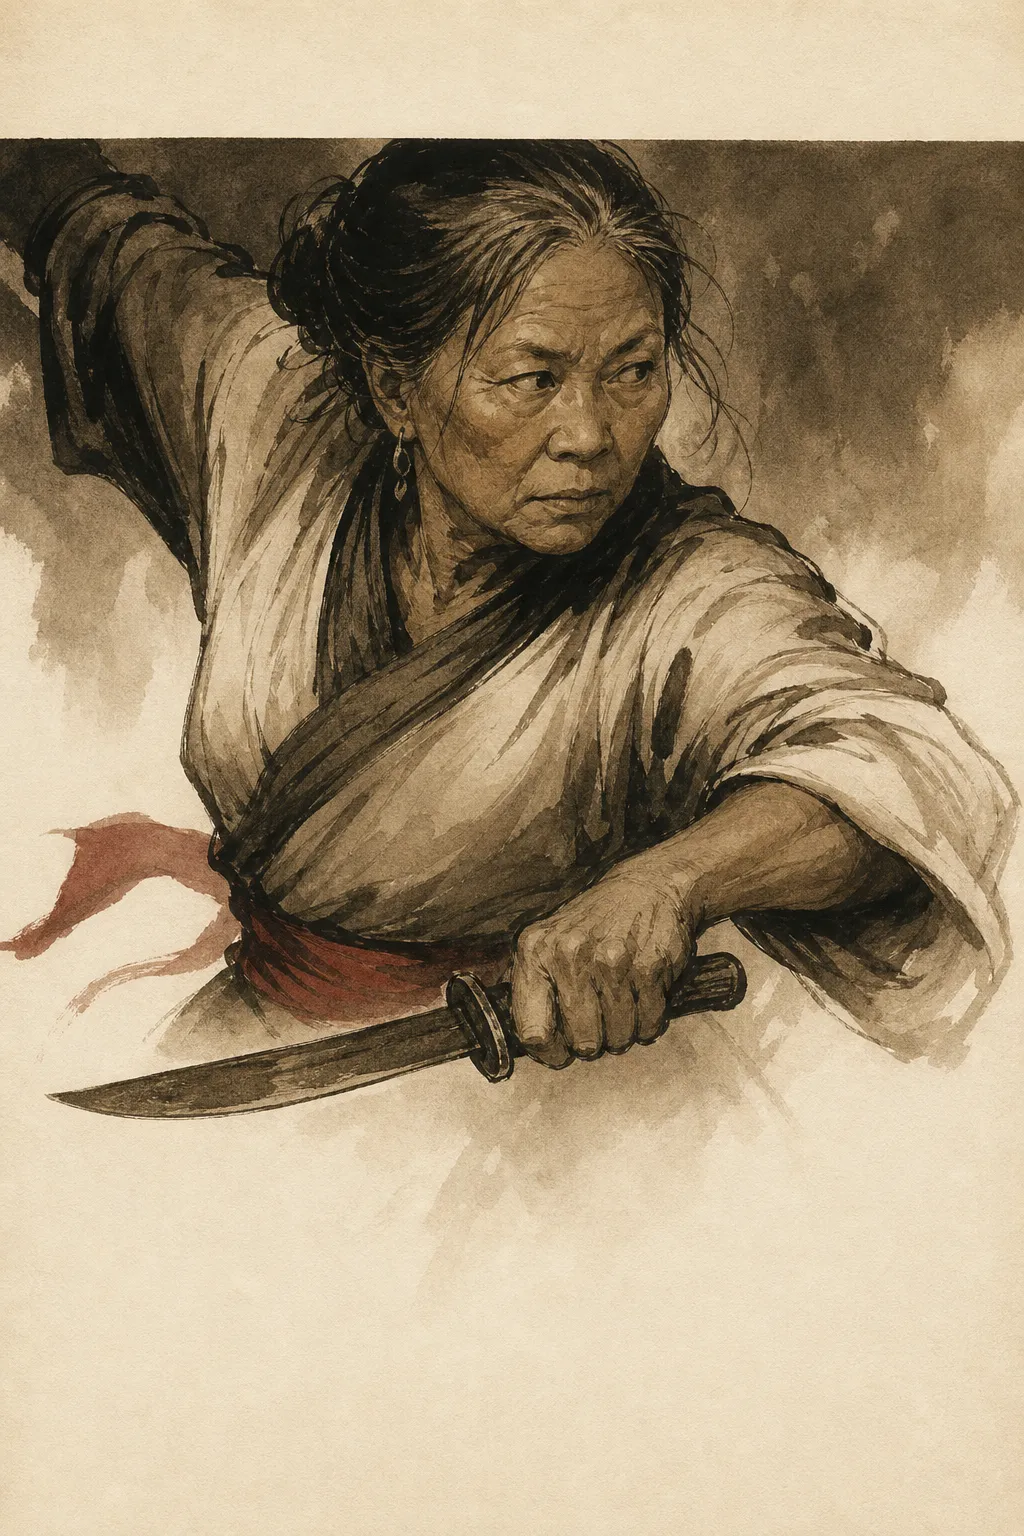
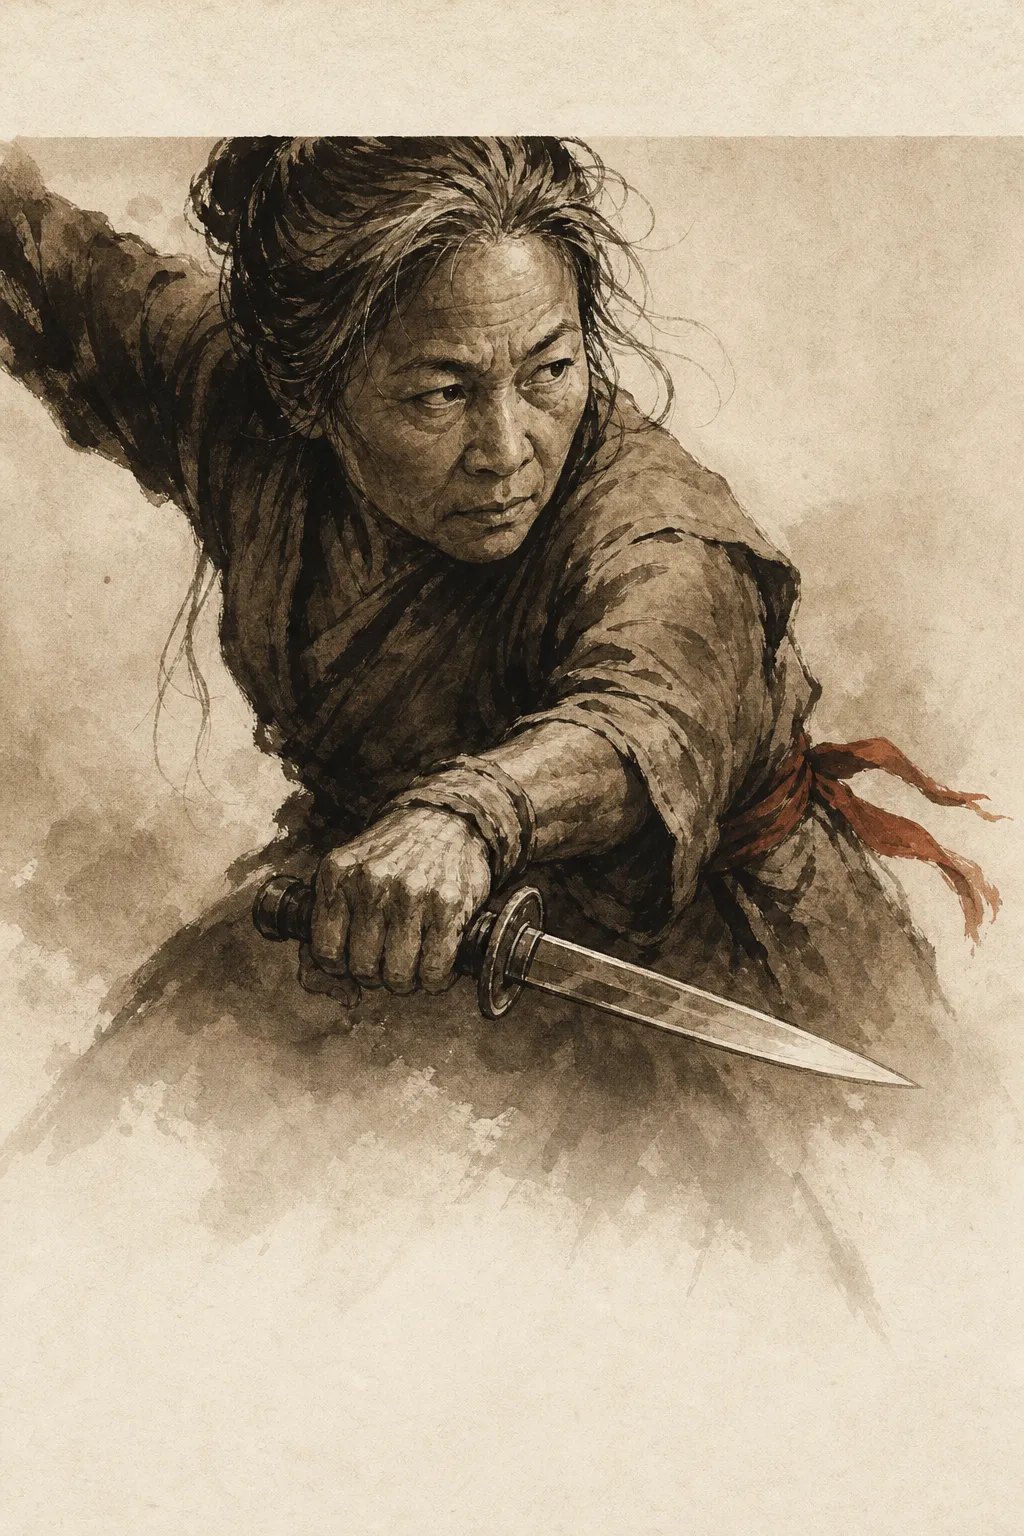
A shared motif is a prompt six times over, and the wound in it was refused three times
**`cards/shade-starter/bind-the-wound` has no hand-written direction, so
`EFFECT_MOTIF.heal` WAS its prompt**, and it read *a wound closing, or breath
coming back*. Blocked `[self-harm, violence]` at the output stage three times.

**It drew at 14:43 and was refused at 15:00 on identical words**, which is the
thing to understand about output-stage moderation: the classifier judges the
picture that came back, so the same wording is a lottery rather than a verdict.
Re-rolling is not useless, it is bad odds. Different wording is what moves them.

**The lesson was already in this file twice, and both times on one piece.**
`items/healers-kit` was refused and rewritten to say *nobody is being treated,
and there is no body, no wound and no blood in the frame*; `cards/twist/hurt`
only drew once it became a dented helmet. Both were hand-written directions on
a single piece. The wound was in the SHARED word, which six pieces reach
through -- three by the motif, three by its stem -- which is why a third piece
was still carrying it after two fixes.

**And the safe picture was already there, second in the list behind an `or`.**
Healing in this game is cloth, water and breath; the injury is what the card is
about, not what the picture should be. So the fix was to delete the first half.

`bind-the-wound` gets a direction as well, because its own title is in the
subject line where it cannot be changed -- it is the card. Written on the rule
[…]

diff --git a/rules/players-handbook.html b/rules/players-handbook.html
@@ -347,7 +347,7 @@
 <tbody>
 <tr><th scope="row" class="named"><img src="../foundry/cardrpg/art/cards/twist/noise.webp" alt="" loading="lazy" decoding="async"><span><strong>Noise</strong></span></th><td>4</td><td>Attention. The opposition now knows something is wrong.</td></tr>
 <tr><th scope="row" class="named"><img src="../foundry/cardrpg/art/cards/twist/time.webp" alt="" loading="lazy" decoding="async"><span><strong>Time</strong></span></th><td>4</td><td>The clock. Pressure +1 on top of the normal cost.</td></tr>
-<tr><th scope="row"><strong>Gear</strong></th><td>4</td><td>A tool. It breaks or is lost: no tool bonus until repaired or replaced.</td></tr>
+<tr><th scope="row" class="named"><img src="../foundry/cardrpg/art/cards/twist/gear.webp" alt="" loading="lazy" decoding="async"><span><strong>Gear</strong></span></th><td>4</td><td>A tool. It breaks or is lost: no tool bonus until repaired or replaced.</td></tr>
 <tr><th scope="row" class="named"><img src="../foundry/cardrpg/art/cards/twist/strain.webp" alt="" loading="lazy" decoding="async"><span><strong>Strain</strong></span></th><td>5</td><td>Cards. Discard 1 skill card of the GM's choice from your hand.</td></tr>
 <tr><th scope="row" class="named"><img src="../foundry/cardrpg/art/cards/twist/hurt.webp" alt="" loading="lazy" decoding="async"><span><strong>Hurt</strong></span></th><td>3</td><td>Health. Lose 2 Health, or gain a condition that fits.</td></tr>
 <tr><th scope="row" class="named"><img src="../foundry/cardrpg/art/cards/twist/arrival.webp" alt="" loading="lazy" decoding="async"><span><strong>Arrival</strong></span></th><td>4</td><td>Someone new. A third party walks into the scene.</td></tr>
@@ -545,7 +545,7 @@
 <div class="scroller"><table>
 <thead><tr><th>Card</th><th>What it is</th><th>Primary</th><th>Secondary</th><th>Reaction</th><th>Copies</th></tr></thead>
 <tbody>
-<tr><th scope="row"><strong>On the Rest</strong></th><td>The barrel laid on its rest and levelled down one line, and you simply wait. <em>A firearm, levelled on its rest. The first enemy to walk into the ground you are watching takes it, armour and all, out to the barrel's own range.</em></td><td>Ready</td><td>Move 1</td><td>Overwatch</td><td>1</td></tr>
+<tr><th scope="row" class="named"><img src="../foundry/cardrpg/art/cards/strength/on-the-rest.webp" alt="" loading="lazy" decoding="async"><span><strong>On the Rest</strong></span></th><td>The barrel laid on its rest and levelled down one line, and you simply wait. <em>A firearm, levelled on its rest. The first enemy to walk into the ground you are watching takes it, armour and all, out to the barrel's own range.</em></td><td>Ready</td><td>Move 1</td><td>Overwatch</td><td>1</td></tr>
 <tr><th scope="row" class="named"><img src="../foundry/cardrpg/art/cards/strength/shoulder-check.webp" alt="" loading="lazy" decoding="async"><span><strong>Shoulder Check</strong></span></th><td>Your whole weight into theirs, at the range where weight wins. <em>Adjacent.</em></td><td>Strike</td><td>→ offBalance (1)</td><td>–</td><td>1</td></tr>
 <tr><th scope="row" class="named"><img src="../foundry/cardrpg/art/cards/strength/shield-bash.webp" alt="" loading="lazy" decoding="async"><span><strong>Shield Bash</strong></span></th><td>The shield is not only for stopping things. <em>No damage: push 2 and step into the square it left.</em></td><td>Strike</td><td>Move 1</td><td>Block</td><td>1</td></tr>
 <tr><th scope="row" class="named"><img src="../foundry/cardrpg/art/cards/strength/hammerblow.webp" alt="" loading="lazy" decoding="async"><span><strong>Hammerblow</strong></span></th><td>A blow that needs them off balance, and settles it once they are.</td><td>Strike when they are offBalance</td><td>Move 1</td><td>–</td><td>1</td></tr>
@@ -574,8 +574,8 @@
 <div class="scroller"><table>
 <thead><tr><th>Card</th><th>What it is</th><th>Primary</th><th>Secondary</th><th>Reaction</th><th>Copies</th></tr></thead>
 <tbody>
-<tr><th scope="row"><strong>The Held Knife</strong></th><td>A blade balanced and not yet thrown, waiting for somebody to cross in front of you. <em>A weapon you can throw. The first enemy to walk into the ground you are watching takes it, at the blade's own value and no further than it flies.</em></td><td>Ready</td><td>Move 1</td><td>Overwatch</td><td>1</td></tr>
-<tr><th scope="row"><strong>At Full Draw</strong></th><td>Held at full draw, watching one approach and nothing else. <em>A bow or a crossbow. The first enemy to walk into the ground you are watching takes the shot, at the bow's own value, out to its own range.</em></td><td>Ready</td><td>Move 1</td><td>Overwatch</td><td>1</td></tr>
+<tr><th scope="row" class="named"><img src="../foundry/cardrpg/art/cards/shade/the-held-knife.webp" alt="" loading="lazy" decoding="async"><span><strong>The Held Knife</strong></span></th><td>A blade balanced and not yet thrown, waiting for somebody to cross in front of you. <em>A weapon you can throw. The first enemy to walk into the ground you are watching takes it, at the blade's own value and no further than it flies.</em></td><td>Ready</td><td>Move 1</td><td>Overwatch</td><td>1</td></tr>
+<tr><th scope="row" class="named"><img src="../foundry/cardrpg/art/cards/shade/at-full-draw.webp" alt="" loading="lazy" decoding="async"><span><strong>At Full Draw</strong></span></th><td>Held at full draw, watching one approach and nothing else. <em>A bow or a crossbow. The first enemy to walk into the ground you are watching takes the shot, at the bow's own value, out to its own range.</em></td><td>Ready</td><td>Move 1</td><td>Overwatch</td><td>1</td></tr>
 <tr><th scope="row" class="named"><img src="../foundry/cardrpg/art/cards/shade/call-the-shot.webp" alt="" loading="lazy" decoding="async"><span><strong>Call the Shot</strong></span></th><td>Pick your man out of the crowd, and keep him picked. <em>Marked on any enemy you can see, at any range.</em></td><td>Strike</td><td>→ marked (1)</td><td>–</td><td>1</td></tr>
 <tr><th scope="row" class="named"><img src="../foundry/cardrpg/art/cards/shade/find-the-seam.webp" alt="" loading="lazy" decoding="async"><span><strong>Find the Seam</strong></span></th><td>Not through the armour. Between it. <em>Armour does not apply. A point weaker than a plain Strike.</em></td><td>Strike -1 (ignores armour)</td><td>Move 1</td><td>–</td><td>1</td></tr>
 <tr><th scope="row" class="named"><img src="../foundry/cardrpg/art/cards/shade/half-hilt.webp" alt="" loading="lazy" decoding="async"><span><strong>Half-Hilt</strong></span></th><td>Hand on the blade, point driven into the gap by main force. <em>Ignores 2 armour. Reversed grip, straight into the gap.</em></td><td>Strike (ignores 2 armour)</td><td>Move 1</td><td>–</td><td>1</td></tr>

diff --git a/foundry/art-list.md b/foundry/art-list.md
@@ -1,6 +1,6 @@
 # Art list
 
-**643 pieces**, of which **639** are drawn and **4** still to shoot. Generated from the game's own content by `test/art-list.mjs` — regenerate it rather than editing it, or it will disagree with the game the first time somebody adds a card. **Drawn means the file is on the disk**, not that the game knows where it would go: every piece in content knows that, so the older count was always the total.
+**643 pieces**, of which **643** are drawn and **0** still to shoot. Generated from the game's own content by `test/art-list.mjs` — regenerate it rather than editing it, or it will disagree with the game the first time somebody adds a card. **Drawn means the file is on the disk**, not that the game knows where it would go: every piece in content knows that, so the older count was always the total.
 
 ## What to supply
 
@@ -186,11 +186,11 @@ Face-up on the table during a fight, which makes them the art players stare at l
 
 The minor-node cards of a built Way.
 
-**19 pieces**, 17 wired up. Suggested path: `cardrpg/art/cards/shade/`
+**19 pieces**, 19 wired up. Suggested path: `cardrpg/art/cards/shade/`
 
 | | Name | What it is | File |
 |---|---|---|---|
-|   | **At Full Draw** | Ready · / Move 1 · A bow or a crossbow. The first enemy to walk into the ground you are watching takes the shot, at the bow's own value, out to its... | `cards/shade/at-full-draw.webp` |
+| ✓ | **At Full Draw** | Ready · / Move 1 · A bow or a crossbow. The first enemy to walk into the ground you are watching takes the shot, at the bow's own value, out to its... | `cards/shade/at-full-draw.webp` |
 | ✓ | **Between the Plates** | Strike ignores armour vs Marked · / Move 1 | `cards/shade/between-the-plates.webp` |
 | ✓ | **Call the Shot** | Strike · / Marked (1) · Marked on any enemy you can see, at any range. | `cards/shade/call-the-shot.webp` |
 | ✓ | **Count the Odds** | Strike · / Sift 2 · The secondary is seeing only, so you may not reorder them, and you discard nothing. | `cards/shade/count-the-odds.webp` |
@@ -207,14 +207,14 @@ The minor-node cards of a built Way.
 | ✓ | **Slip the Knot** | Move 2 · / Shake 1 | `cards/shade/slip-the-knot.webp` |
 | ✓ | **Smoke and Go** | Invisible (1), Move 2 · / Use · On yourself. | `cards/shade/smoke-and-go.webp` |
 | ✓ | **Take the Shot** | Strike +1 · / Move 2 | `cards/shade/take-the-shot.webp` |
-|   | **The Held Knife** | Ready · / Move 1 · A weapon you can throw. The first enemy to walk into the ground you are watching takes it, at the blade's own value and no furth... | `cards/shade/the-held-knife.webp` |
+| ✓ | **The Held Knife** | Ready · / Move 1 · A weapon you can throw. The first enemy to walk into the ground you are watching takes it, at the blade's own value and no furth... | `cards/shade/the-held-knife.webp` |
 | ✓ | **Vanish** | Invisible (1) · / Move 2 · On yourself. | `cards/shade/vanish.webp` |
 
 ## Way of Strength — pool
 
 The minor-node cards of a built Way.
 
-**16 pieces**, 15 wired up. Suggested path: `cardrpg/art/cards/strength/`
+**16 pieces**, 16 wired up. Suggested path: `cardrpg/art/cards/strength/`
 
 | | Name | What it is | File |
 |---|---|---|---|
@@ -224,7 +224,7 @@ The minor-node cards of a built Way.
 | ✓ | **Hammerblow** | Strike · / Move 1 | `cards/strength/hammerblow.webp` |
 | ✓ | **Heave** | Move 2 · / Ready · Carrying any weight without being Slowed. | `cards/strength/heave.webp` |
 | ✓ | **Nothing Held Back** | Strike · Strain your hand but one, and that card must be played this turn. Strike +1 per card strained. | `cards/strength/nothing-held-back.webp` |
-|   | **On the Rest** | Ready · / Move 1 · A firearm, levelled on its rest. The first enemy to walk into the ground you are watching takes it, armour and all, out to the b... | `cards/strength/on-the-rest.webp` |
+| ✓ | **On the Rest** | Ready · / Move 1 · A firearm, levelled on its rest. The first enemy to walk into the ground you are watching takes it, armour and all, out to the b... | `cards/strength/on-the-rest.webp` |
 | ✓ | **Overbear** | Grappled (2) · / Move 1 | `cards/strength/overbear.webp` |
 | ✓ | **Pull Them Down** | Strike · / Strike -1 · The secondary only against a Prone or Grappled target. | `cards/strength/pull-them-down.webp` |
 | ✓ | **Roar** | Compelled (1) · / Move 1 · Every adjacent enemy. | `cards/strength/roar.webp` |
@@ -288,12 +288,12 @@ Drawn on a Wild, so each one is a surprise and wants to look like one.
 
 **The GM is somebody at the table**, and this is the deck they draw from more often than any player draws from anything. One person seeing all thirty in a session is a reason to draw them, not a reason to skip them, which is the argument this list used to get backwards. A twist is a complication rather than an attack: show the cost arriving, not a weapon.
 
-**8 pieces**, 7 wired up. Suggested path: `cardrpg/art/cards/twist/`
+**8 pieces**, 8 wired up. Suggested path: `cardrpg/art/cards/twist/`
 
 | | Name | What it is | File |
 |---|---|---|---|
 | ✓ | **Arrival** | — | `cards/twist/arrival.webp` |
-|   | **Gear** | — | `cards/twist/gear.webp` |
+| ✓ | **Gear** | — | `cards/twist/gear.webp` |
 | ✓ | **Hurt** | — | `cards/twist/hurt.webp` |
 | ✓ | **Noise** | — | `cards/twist/noise.webp` |
 | ✓ | **Opening** | — | `cards/twist/opening.webp` |

diff --git a/foundry/art-prompts.md b/foundry/art-prompts.md
@@ -482,7 +482,7 @@ File: `cards/shade-starter/bind-the-wound.webp`
 ```text
 SUBJECT. "Bind the Wound" — Heal 2 · / Use
 
-Draw a wound closing, or breath coming back; a hand working an object, the object mid-use rather than held up to be seen.
+Draw a strip of torn linen trailing from a closed fist, knotted once and pulled tight, the far end running out of frame. The cloth and the knot are the whole subject: no body, no limb, no wound and no blood anywhere in the picture.
 
 WHO IS IN IT. If a face or any bare skin shows here, that person is a man of Levantine appearance, past fifty -- fixed, not a suggestion, and not a default to fall back from. If this crop shows no person at all, the line does not apply.
 ```
@@ -3749,7 +3749,7 @@ SUBJECT. "Breath of the Spirit" — strength 2 · Heal 3 range 99
 
 Reaction: heal an ally 3, at any range, ignoring cover. The spirit drifts through all the air, so distance is not a question for it.
 
-Draw the wound closing, landing 99 squares from the one who threw it.
+Draw breath coming back, landing 99 squares from the one who threw it.
 
 WHO IS IN IT. If a face or any bare skin shows here, that person is a woman of Germanic appearance, in their thirties -- fixed, not a suggestion, and not a default to fall back from. If this crop shows no person at all, the line does not apply.
 ```
@@ -3763,7 +3763,7 @@ SUBJECT. "Out of Barren Ground" — strength 3 · Heal 4 range 2
 
 Plant it. At the start of your second turn after, every ally within 2 heals 4. Nothing he gives arrives when you ask for it.
 
-Draw the wound closing, landing 2 squares from the one who threw it.
+Draw breath coming back, landing 2 squares from the one who threw it.
 
 WHO IS IN IT. If a face or any bare skin shows here, that person is a man of Levantine appearance, in their twenties -- fixed, not a suggestion, and not a default to fall back from. If this crop shows no person at all, the line does not apply.
 ```
@@ -5244,7 +5244,7 @@ SUBJECT. "Alone on the Road" — strength 1 · Heal 2 at the start of your turn
 
 While no ally is within 2 squares, heal 2 at the start of your turn. The only healing a priest of hers can ever receive.
 
-Draw a wound closing, or breath coming back.
+Draw breath coming back -- a chest filling again, a hand steady that was not steady. No wound, no blood and no bandage in the frame.
 ```
 
 ### Bear It for Them
@@ -5328,7 +5328,7 @@ SUBJECT. "Lay On" — strength 1 · Heal 2 range 3
 
 Hands, and three squares of air between you.
 
-Draw the wound closing, landing 3 squares from the one who threw it.
+Draw breath coming back, landing 3 squares from the one who threw it.
 ```
 
 ### Measure of the Debt
@@ -5576,7 +5576,7 @@ SUBJECT. "The Orchard" — strength 4 · Heal 4 and sheds one condition
 
 Two turns from now the whole party heals four and sheds something. Planting is the god's only verb.
 
-Draw a wound closing, or breath coming back.
+Draw breath coming back -- a chest filling again, a hand steady that was not steady. No wound, no blood and no bandage in the frame.
 ```
 
 ### The Planted Word
